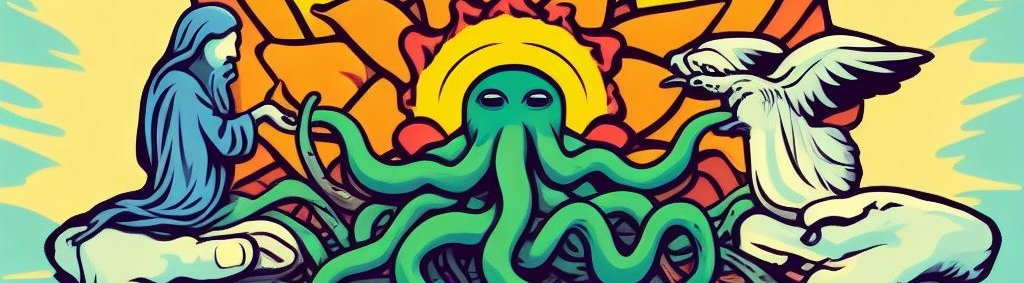
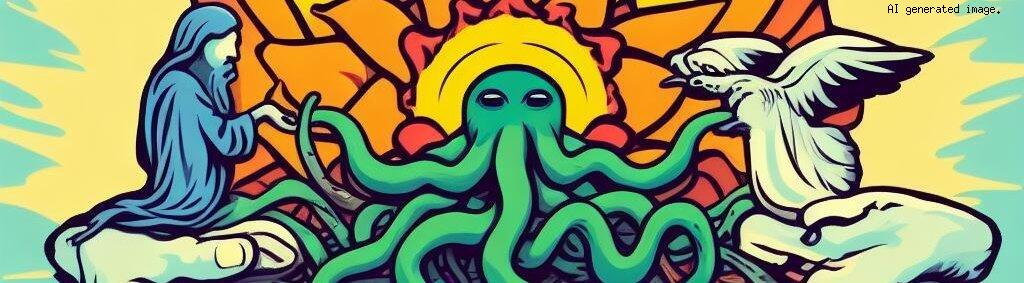
change img

Changed region(s): [[0.8438, 0.0, 0.9688, 0.0565], [0.1875, 0.0, 0.2188, 0.0283]]

diff --git a/_posts/2023-11-11-slurm-jupyter.md b/_posts/2023-11-11-slurm-jupyter.md
@@ -15,7 +15,7 @@ header:
   <img src="./../../../../images/2023-11-11-slurm-jupyter-intro-image.jpg" alt="Photo generated with AI by Bing.">
   <figcaption>
     <span class="caption"></span>
-    <i class="photo-credit">Photo generated with AI by Microsoft Bing.</i>
+    <!-- <i class="photo-credit">Photo generated with AI by Microsoft Bing.</i> -->
   </figcaption>
 </figure>
 
